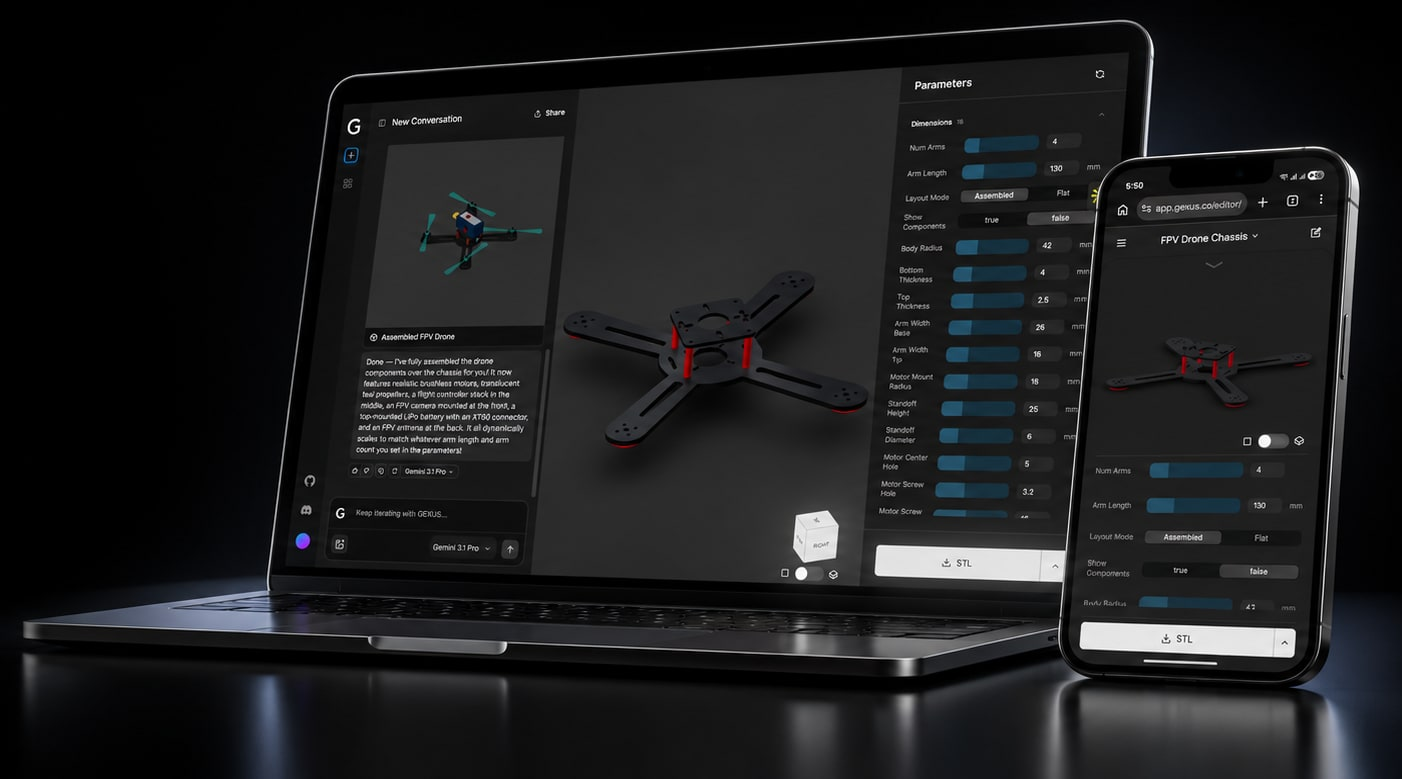
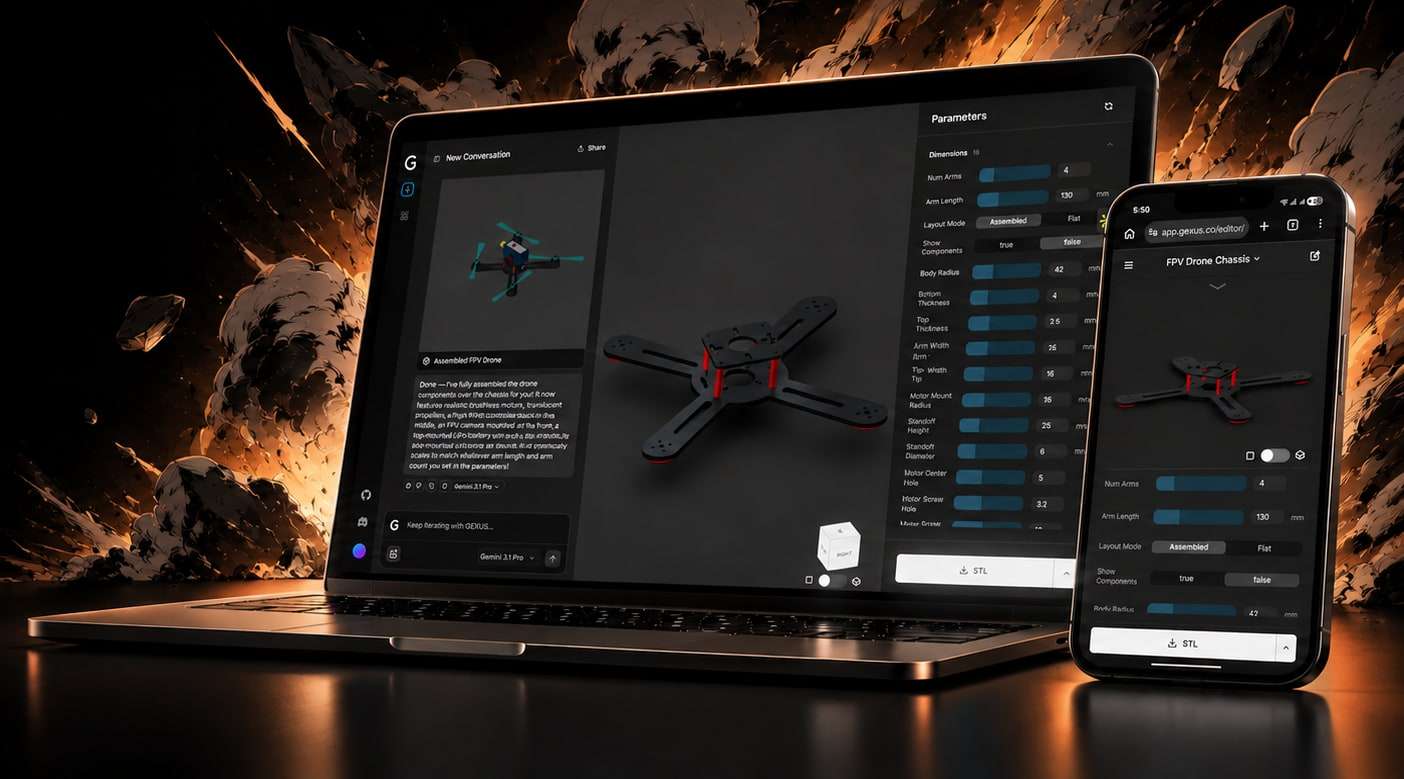
Swap in the hero render with the explosion backdrop
The new render adds an orange comic-style explosion behind the devices
that runs off the image's top and right edges. The mask now fades those
edges too, so they never show as hard lines: the top on portrait
screens, and the right edge on screens past 2000px where the art no
longer meets the viewport edge. Aspect ratios follow the new 1944x809
source.

diff --git a/app/globals.css b/app/globals.css
@@ -111,20 +111,24 @@
     --step: clamp(52px, 8.6svh, 92px);
   }
 
-  /* Feathers the hero product shot into the page. See Hero.tsx. */
+  /*
+   * Feathers the hero product shot into the page. See Hero.tsx. The render's
+   * orange backdrop runs off its top and right edges, so those fade too;
+   * otherwise they show as hard lines on phones and on screens past 2000px.
+   */
   .hero-art {
-    -webkit-mask-image: linear-gradient(to bottom, #000 78%, transparent);
-    mask-image: linear-gradient(to bottom, #000 78%, transparent);
+    -webkit-mask-image: linear-gradient(to bottom, transparent 0%, #000 12%, #000 78%, transparent 100%);
+    mask-image: linear-gradient(to bottom, transparent 0%, #000 12%, #000 78%, transparent 100%);
   }
   @media (min-width: 1024px) and (min-aspect-ratio: 11/10) {
     .hero-art {
       -webkit-mask-image:
-        linear-gradient(to right, transparent 0%, #000 22%),
-        linear-gradient(to bottom, transparent 0%, #000 12%, #000 84%, transparent 100%);
+        linear-gradient(to right, transparent 0%, #000 22%, #000 94%, transparent 100%),
+        linear-gradient(to bottom, transparent 0%, #000 14%, #000 84%, transparent 100%);
       -webkit-mask-composite: source-in;
       mask-image:
-        linear-gradient(to right, transparent 0%, #000 22%),
-        linear-gradient(to bottom, transparent 0%, #000 12%, #000 84%, transparent 100%);
+        linear-gradient(to right, transparent 0%, #000 22%, #000 94%, transparent 100%),
+        linear-gradient(to bottom, transparent 0%, #000 14%, #000 84%, transparent 100%);
       mask-composite: intersect;
     }
   }

diff --git a/components/sections/Hero.tsx b/components/sections/Hero.tsx
@@ -52,7 +52,7 @@ export function Hero() {
         its edges into the page, since the render's black is not quite the
         page's ink.
       */}
-      <div className="hero-art relative order-last mt-auto aspect-[1402/779] w-full desk:absolute desk:top-[calc(50%+2rem)] desk:right-[max(0px,calc((100vw-2000px)/2))] desk:-z-10 desk:mt-0 desk:aspect-[1942/809] desk:w-[min(84vw,1600px,calc((100svh-4rem)*2.2))] desk:-translate-y-1/2">
+      <div className="hero-art relative order-last mt-auto aspect-[1404/779] w-full desk:absolute desk:top-[calc(50%+2rem)] desk:right-[max(0px,calc((100vw-2000px)/2))] desk:-z-10 desk:mt-0 desk:aspect-[1944/809] desk:w-[min(84vw,1600px,calc((100svh-4rem)*2.2))] desk:-translate-y-1/2">
         <picture>
           <source media={DESK_MEDIA} srcSet={desktopSrcSet} sizes="min(84vw, 1600px)" />
           {/* eslint-disable-next-line jsx-a11y/alt-text -- alt comes from getImageProps */}
